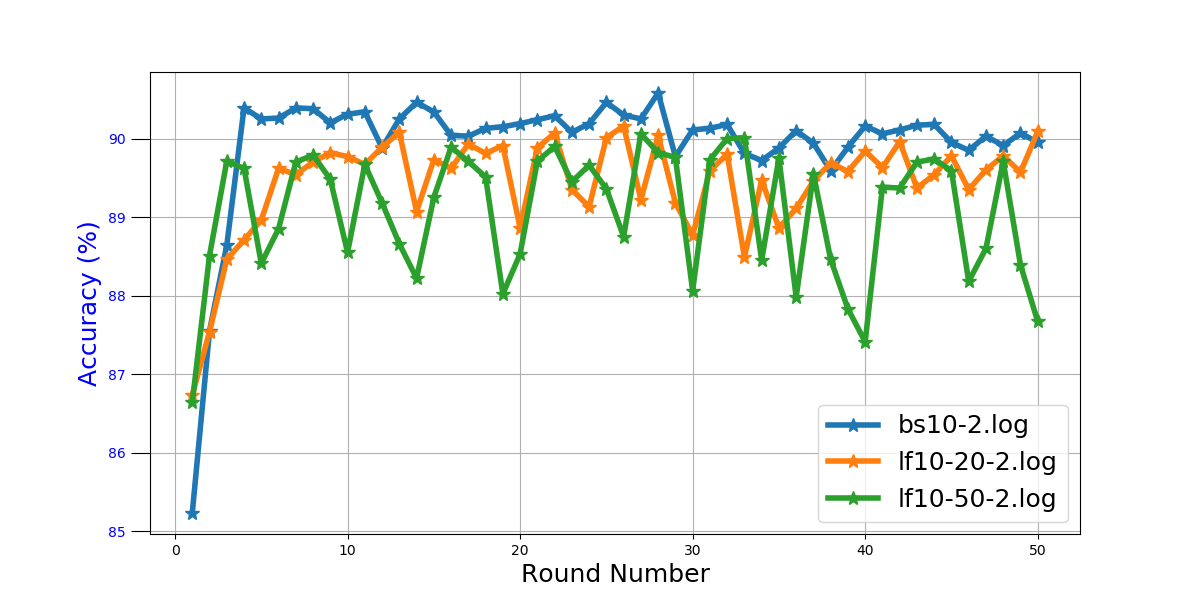
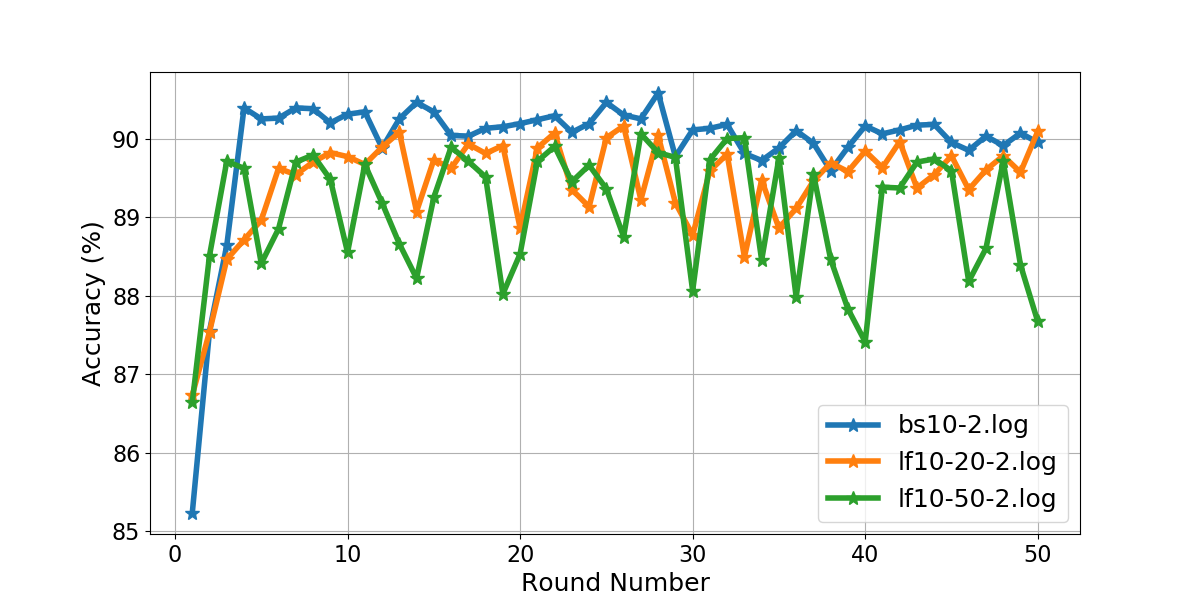
update all charts

diff --git a/plot.py b/plot.py
@@ -65,14 +65,14 @@ def plot_accuracy(log_files, output_image, max_round, loss_curve_flag):
             ax2.plot(rounds, smoothed_losses, linewidth=4, linestyle='--', label=f"Loss - {label}")
 
     ax1.set_xlabel("Round Number", size=18)
-    ax1.set_ylabel("Accuracy (%)", color='b', size=18)
-    ax1.tick_params(axis='y', labelcolor='b', size=14)
+    ax1.set_ylabel("Accuracy (%)", size=18)
+    ax1.tick_params(axis='x', labelsize=16)
+    ax1.tick_params(axis='y', labelsize=16)
     ax1.legend(loc = "lower right", prop = {'size': 18})
     
     if loss_curve_flag:
-        ax2.set_ylabel("Loss", color='r', size=18)
-        ax2.tick_params(axis='y', labelcolor='r')
-        ax2.yticks(np.arange(0, 2, 0.2), size=14)
+        ax2.set_ylabel("Loss", size=18)
+        ax2.tick_params(axis='y',labelsize=16)
         ax2.legend(loc = "upper right", prop = {'size': 18})
     
     plt.grid(True)
